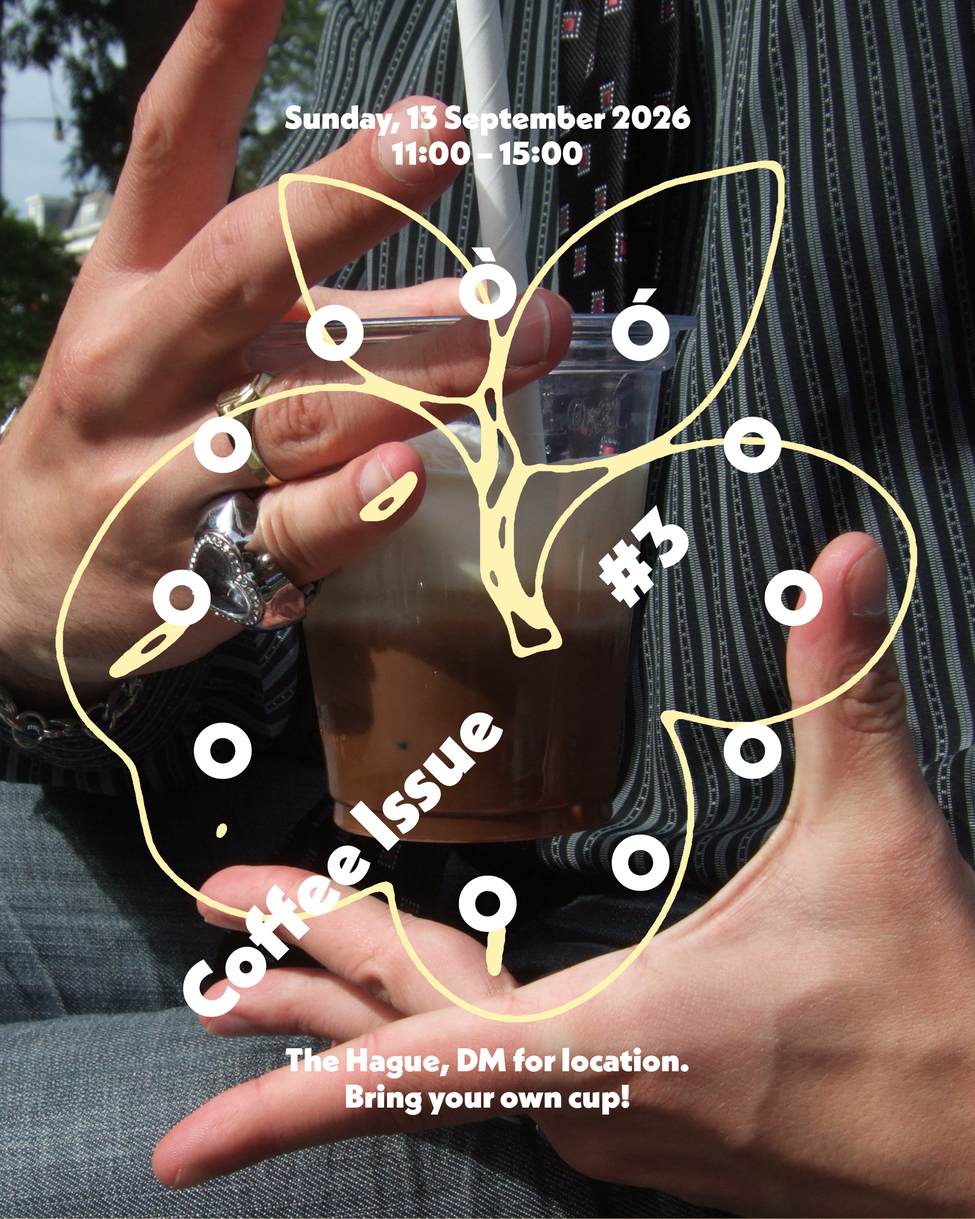
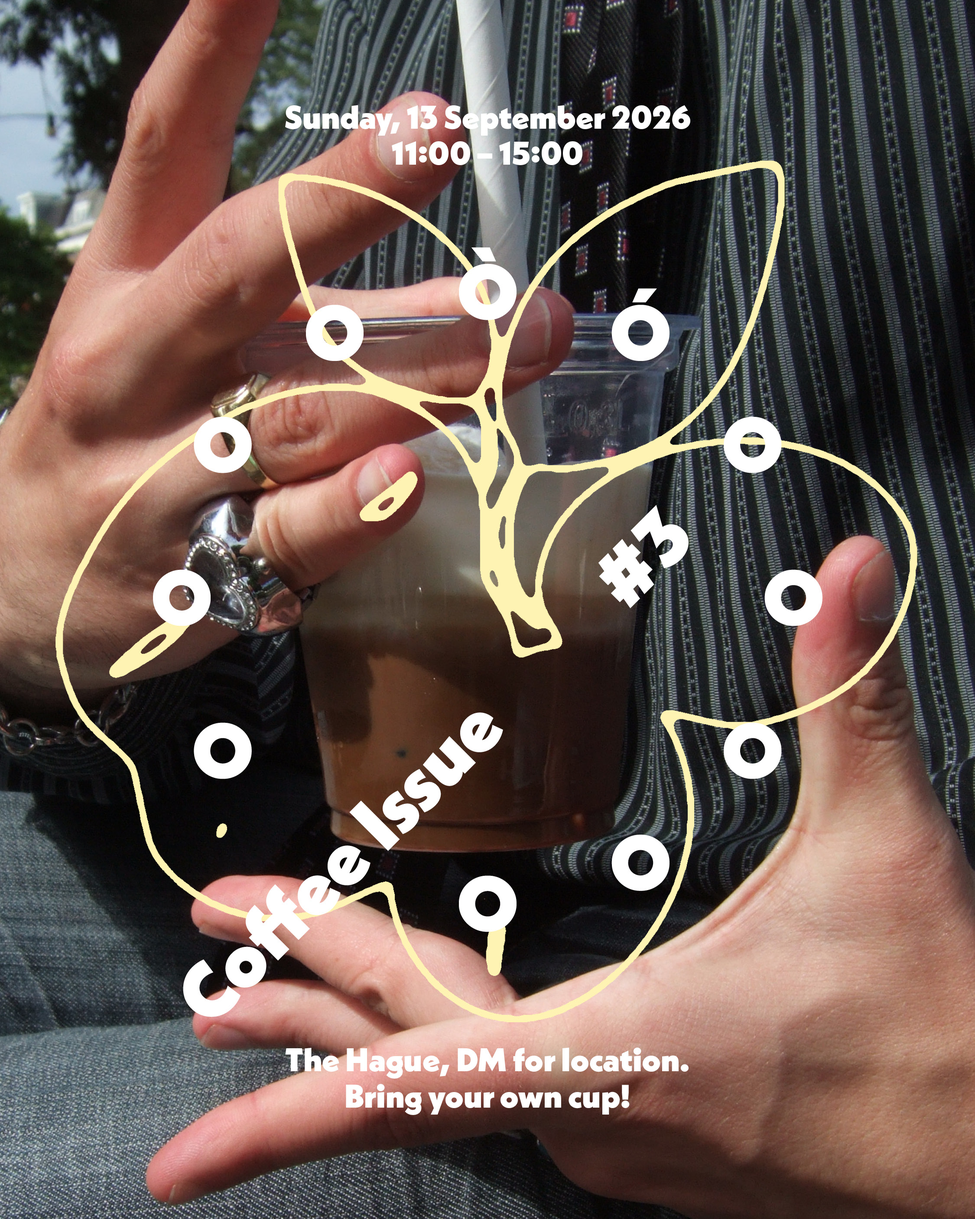
poster fixed

diff --git a/style.css b/style.css
@@ -7,9 +7,12 @@ body{
   padding: 0;
   /* background-color: #fff3b4; */
   background-color: #23150e;
+  /* min-width: 100%;
+  min-height: 100%; */
 }
 img{
-  width:25em;
+  width:100%;
+  display: block;
 }
 
 .big-container{
@@ -32,10 +35,10 @@ img{
   flex-grow:1;
 }
 .spacer{
-  width: 200%;
+  width: 100%;
 }
 .middle-gutter{
-  width: 10em;
+  width: 5em;
 }
 
 .side-bar{
@@ -49,10 +52,6 @@ img{
   margin: 0em;
 
   text-align: center;
-  /* writing-mode: vertical-rl;
-  text-orientation: sideways;
-  -ms-transform: rotate(-180deg);
-  transform: rotate(-180deg); */
 }
 
 .side-bar p a{
@@ -78,6 +77,21 @@ img{
 @media only screen and (max-width: 600px) {
   .container{
     flex-direction: column;
+    justify-content: center;
     /* background: blue; */
   }
+  .side-bar{
+    /* background-color: grey; */
+    width: 100%;
+    margin: 1em 0em 1em 0em;
+    /* margin-right: 1em; */
+  }
+  .side-bar p{
+    font-family: "Kabel Black";
+    font-size: 1em;
+    margin: 0em;
+
+    text-align: center;
+  }
+
 }
